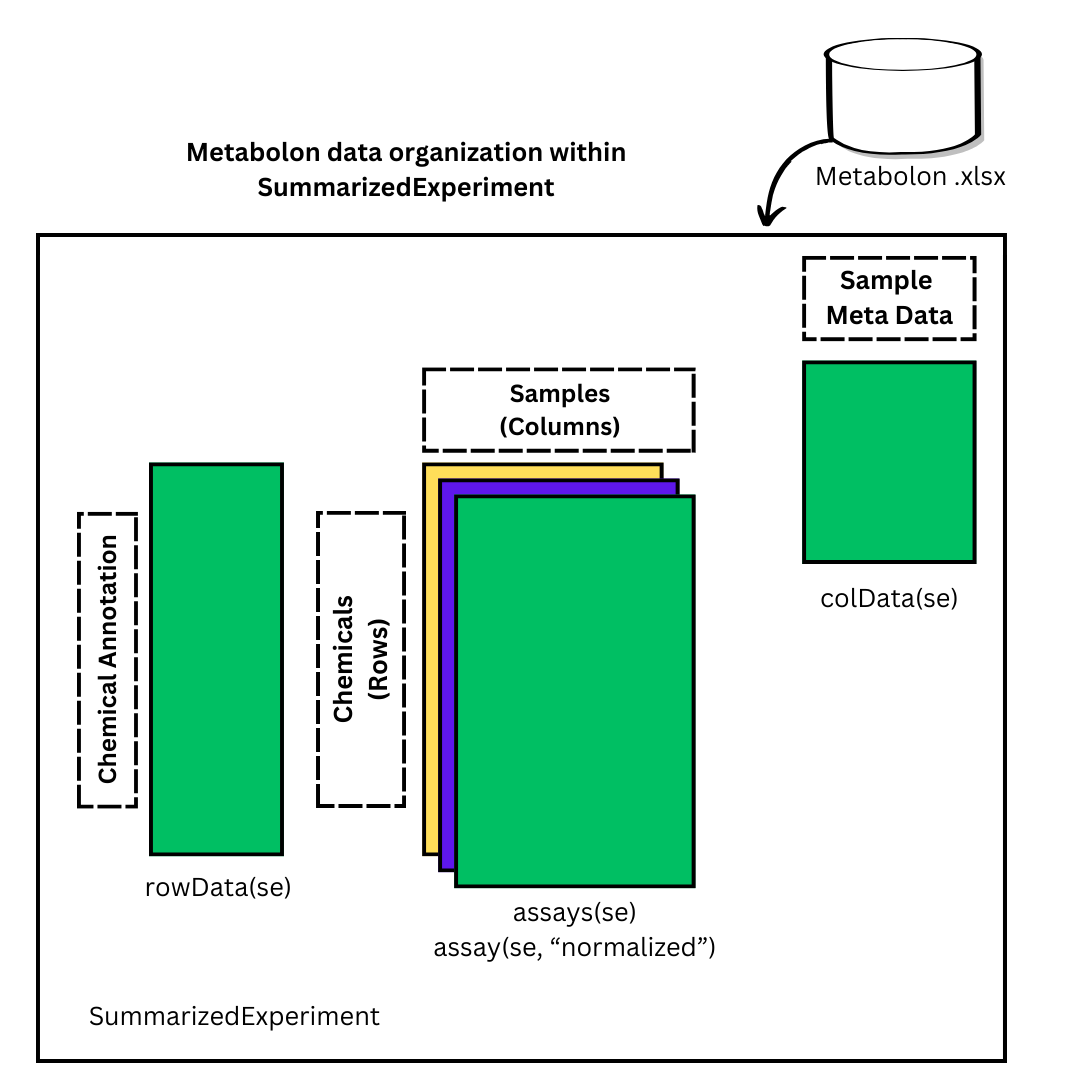
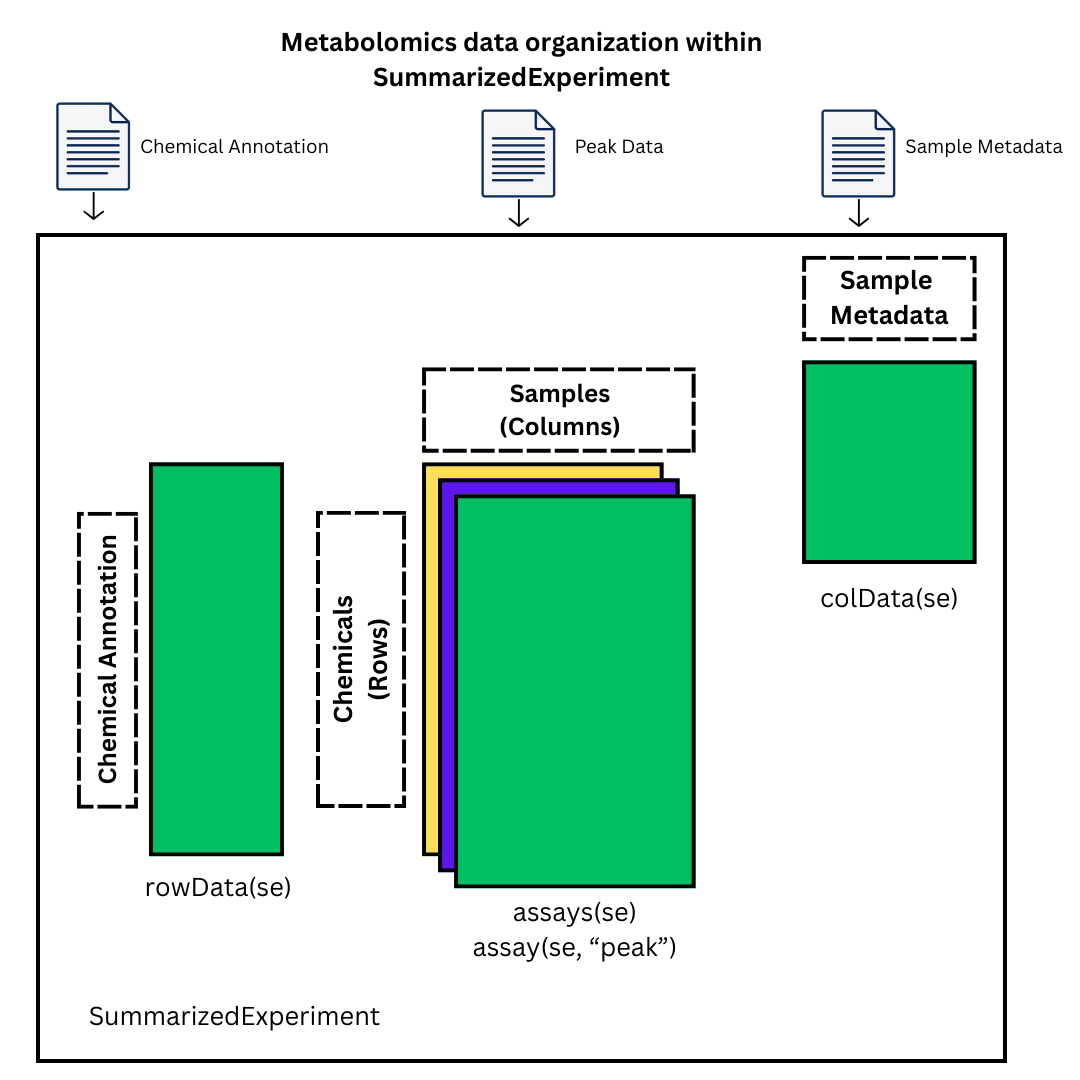
updating readme

diff --git a/README.md b/README.md
@@ -13,31 +13,37 @@ Commit](https://img.shields.io/github/last-commit/JoelParkerUofA/MetabolomicsPip
 
 ## Overview
 
-The purpose of the MetabolomicsPipeline is to provide tools for
-additional analyses to complement the metabolomic analysis done by
-Metabolon. The MetabolomicsPipeline organizes Metabolon data in a
+The MetabolomicsPipeline provides a suite of tools for analyzing
+metabolomics data. It organizes datasets into a
 [SummarizedExperiment](https://bioconductor.org/packages/release/bioc/vignettes/SummarizedExperiment/inst/doc/SummarizedExperiment.html)
-to allow for easy integration with other packages available on
-Bioconductor.
+object, enabling integration with other Bioconductor packages.
 
 <img src="WorkflowIMGs/SEOrganization.png" style="width:60.0%" />
 
 Our package also provides functionality for:
 
-1.  Loading Metabolon data into a Summarized Experiment
-    (loadMetabolon())
+1.  Loading metabolomics data into a Summarized Experiment
+    (create_met_se() or load_met_excel())
 
-2.  Exploratory analysis
+2.  Data Processing
+
+- Median standardization (median_standardization())
+
+- Minimum value imputation (min_val_impute())
+
+- Log transformation (log_transformation())
+
+3.  Exploratory analysis
 
 - Heatmaps (metabolite_heatmap())
 
 - PCA plots (metabolite_pca())
 
-3.  Subpathway analysis (subpathway_analysis())
+4.  Subpathway analysis (subpathway_analysis())
 
-4.  Pairwise Comparisons (metabolite_pairwise())
+5.  Pairwise Comparisons (metabolite_pairwise())
 
-5.  Boxplots and Line plots (subpathway_boxplots() and
+6.  Boxplots and Line plots (subpathway_boxplots() and
     subpathway_lineplots())
 
 Below is a simple workflow using the MetabolomicsPipeline package.
@@ -92,8 +98,3 @@ view the vignette by using:
 ``` r
 browseVignettes("MetabolomicsPipeline")
 ```
-
-If you would like to view this vignette without installing the package,
-you can download the MetabolomicsPipeline-vignette.html file in the
-inst/doc folder. Just click on the file and hit the “Download raw file”
-button in the upper right hand corner.
